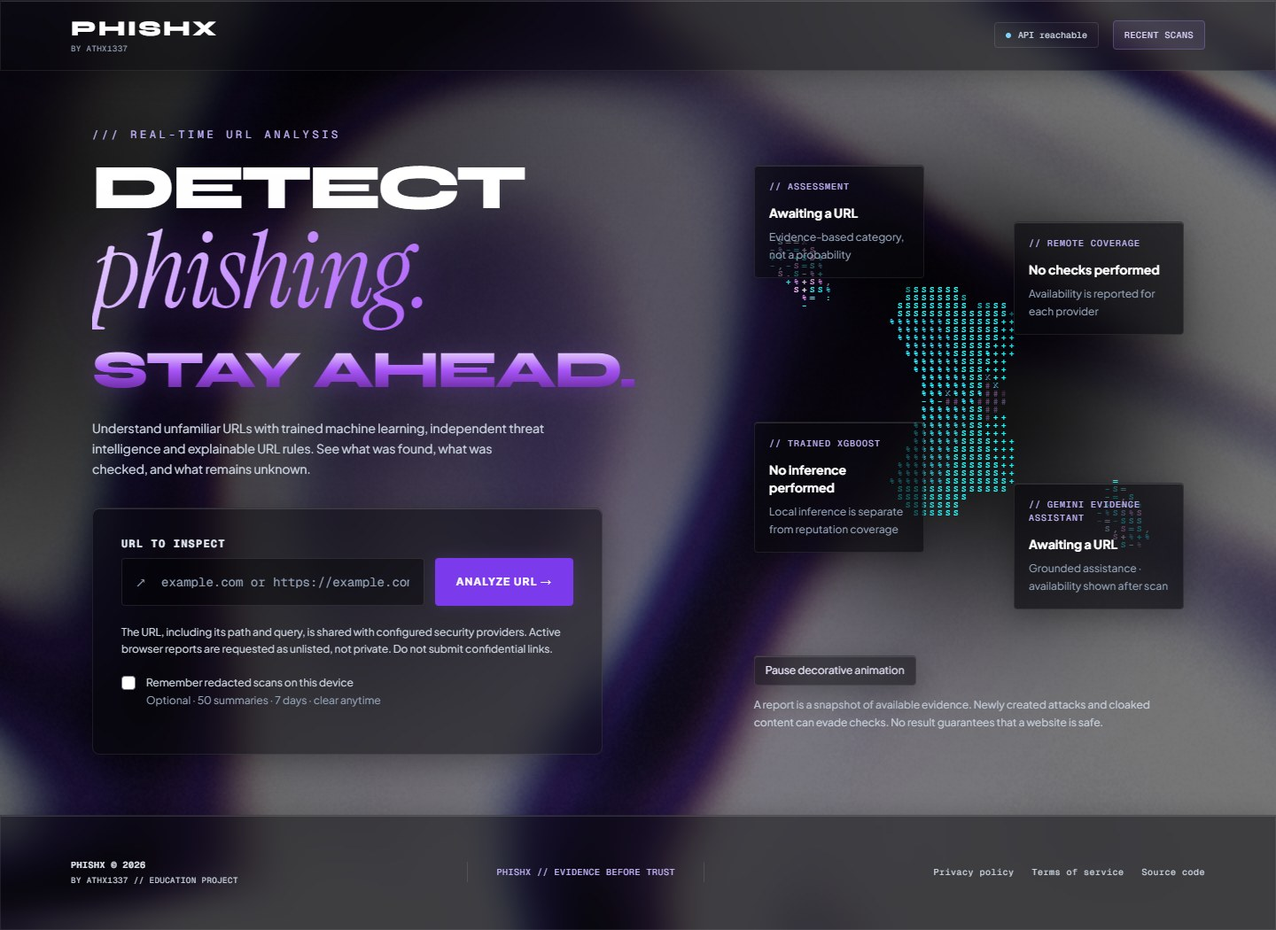
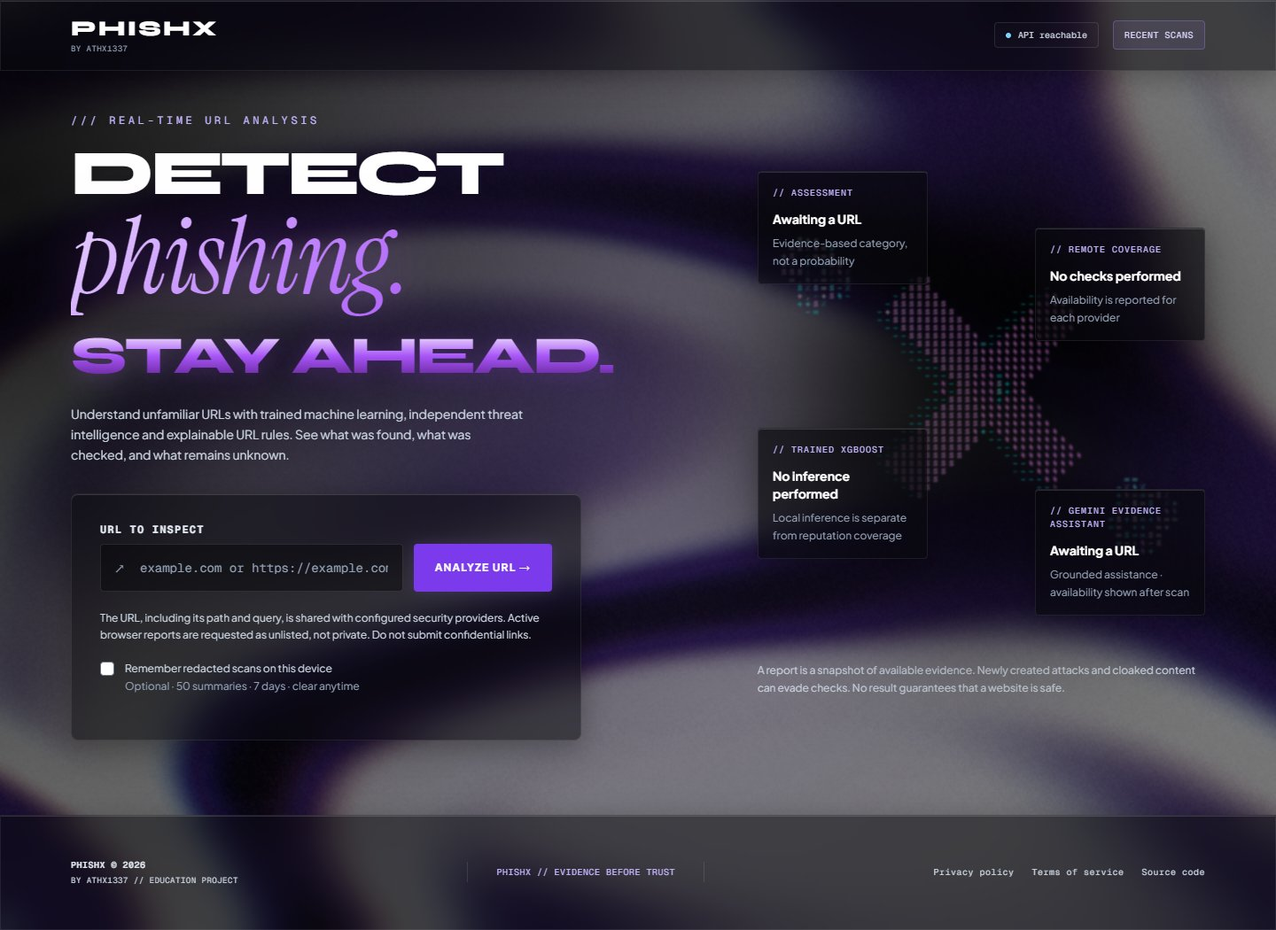
Document scan workspace and production verification

diff --git a/.planning/quick/261103-rkk-compact-scan-workspace-with-real-time-co/261103-rkk-UI-SPEC.md b/.planning/quick/261103-rkk-compact-scan-workspace-with-real-time-co/261103-rkk-UI-SPEC.md
@@ -1,0 +1,78 @@
+# UI-SPEC — phishX scan workspace
+
+Status: implementation contract · 2026-11-03 · quick task 261103-rkk.
+
+## Visual direction
+Keep the original dark purple identity, atmospheric white/purple waves, gothic display headings and ASCII X on the idle home. The user's complaint concerns report organization. Do not recolor the application or replace the restored hero. Remove the visible pause/resume button and App's manual animation state. OS reduced motion, save-data/low-power and hidden-document suspension continue automatically.
+
+Report changes from left-column content beside the hero into a centered full-width workspace (max-width about 1240px, 24px desktop/16px mobile gutters). Hero/HUD composition belongs to idle; do not repeat it beside results. Use the current sans body, mono for technical values, gothic for the principal verdict only. Plain readable headings for tabs/cards. Compact 16–20px panel padding, 12–16px gaps, 1px quiet borders, 8–12px radii; avoid oversized nested glass panels. No safety gauge, invented risk score or big success-green treatment.
+
+## Report anatomy
+```text
+phishX                                                   Recent scans
+REPORT · observed time · cached/current/expired        Refresh  New scan
+┌───────────────────────────────────┬─────────────────────────────────┐
+│ Verdict + short recommendation    │ actual-domain.example  [Copy]  │
+│ Recorded summary                  │ requested URL / full hostname   │
+│ [partial/expiry warning if needed]│ remote coverage + status counts │
+└───────────────────────────────────┴─────────────────────────────────┘
+  Overview       Sources (7)       Browser       Model & AI
+┌───────────────────────────────────┬─────────────────────────────────┐
+│ Why this assessment               │ Evidence assistant             │
+│ Recorded reasons/provenance       │ true status + concise text     │
+│                                   │ registration / observed targets│
+└───────────────────────────────────┴─────────────────────────────────┘
+Snapshot observed / expires / policy · caveat
+```
+
+The header and verdict/domain/coverage remain outside tab panels, with a short recommendation; overall report data is not copied into every tab. Full submitted URL wraps as text; registrable domain is prominent and selectable. Show hostname and Unicode difference when relevant. Copy has a polite announced outcome. Refresh and check-another actions remain visible. Repeated provider errors are summarized once with details in the source inspector.
+
+### Overview
+Two columns at ≥900px, one column below. Main column: recorded reasons with title, description, source, threat type, observed time and stable evidence IDs. Supporting column: concise grounded Gemini explanation/status (keep recognizably visible), registration source/registrar/creation/age/observed time, and requested protocol variants. Long reasons may be grouped with an explicit “Show all findings (N)” action, with all content reachable and evidence links resolving. Do not silently truncate evidence or explanation text. Observed destination summary is compact here with a route to complete destination assessments under Browser.
+
+### Sources
+Responsive source-card grid: four columns on wide screens and two on smaller screens. Render the engines returned by the scan. Cards are native buttons with a minimum interaction area of 44px, a readable name and status badge, a kind label, and a short message. The inspector shows the full message. Status is conveyed in text. Registration context has richer fields in the inspector and Overview and is counted separately from remote providers.
+
+Click opens existing focus-managed Dialog titled with source name; card retains visible focus on close. Inspector contains engine status/type/message/error/observation timestamp, engine evidence and every requested target's URL/status/message/error/timestamps/expiry/evidence. Local model source also shows model/feature version, raw/calibrated output, threshold, promotion/shadow status and safety-probability limitation. Retain all valid source fields currently displayed. No nested source accordions required.
+
+### Browser
+Top line explains active-browser provenance, observation time and unavailable state. For multiple requested targets use explicit target selection; retain accessible target labels. Compact fact strip: IP, ASN, country, final observed URL. Focused subviews/selector for Navigation, Certificates, HTTP transactions, Reported risks and Observed links, with counts and real empty states. Scroll long tables/lists within readable bounds and keep headers visible if useful; do not impose whole-page horizontal scrolling. Navigation includes ordered redirect chain plus complete observed destination assessments: actual domain, verdict, summary, coverage, reasons and observed/expiry metadata. Keep requested schemes distinct from observed TLS/certificate facts. Links and transaction URLs are copyable/selectable text, never automatic links into an untrusted site. Certificates do not establish trust; empty risks do not establish safety.
+
+### Model & AI
+Show the trained XGBoost model's actual per-target provenance/output/threshold/shadow status and explanation of its supporting role. Show complete Gemini provenance, real model ID, referenced evidence and truthful deterministic fallback/status. Gemini is an evidence assistant; it cannot change the official verdict or independently browse/detect threats. Overview may show a compact instance of this explanation; avoid duplicate DOM anchors. Cross-tab evidence links must activate Overview and focus/scroll the mounted observation; a normal link must never point into an unmounted panel.
+
+## Progress screen and lifecycle
+```text
+                         Inspecting example.com
+                   Waiting for scan service · 00:04
+                  No percentage available · Cancel request
+
+After first validated response:
+  Collecting browser observations                     elapsed 00:17
+  Google Safe Browsing  No detection     URLhaus       Unavailable
+  VirusTotal            Check failed     Cloudflare    Pending
+  URL rules             No detection     XGBoost       No detection
+  Registration          Context ready
+  Remote coverage: 1/4 completed · 1 pending · 1 unavailable · 1 failed
+  Next status check in 8s · active inspection deadline 02:43 remaining
+                       Stop waiting and view partial report
+```
+
+Do not display final verdict, full report details or a fake progress bar before completion. Before the first POST response no provider completion is known; use submission/waiting text and elapsed time only. After first response show actual source statuses and meaningful real task facts; display terminal/completed remote counts separately. Text should explain updates are checked approximately every 10s, governed by the provider schedule; elapsed clock is not progress. Pending job holds the report until all target jobs are done and deep_scan is absent. Errors/unavailable/unknown are terminal outcomes, not indefinite blockers and not completed reputation coverage.
+
+Normal finish moves focus to the published verdict heading. Explicit stop, fixed deadline or terminal polling failure reveals the last accepted snapshot with a persistent “Partial report” reason, pending/unverified warning and fresh-scan action. An untrackable pending response also exits as partial with an explanation. Before any response, cancel/error returns to scanner and an announced message. Providers may finish already-submitted work; preserve that cancellation limitation. Reset/rescan never lets a late old response replace the new state.
+
+## Truth, privacy and expiry
+Use current verdict/status labels and policy. “No known threats detected” is qualified by completed evidence and never promises safety. Error/unavailable/unknown/local contexts stay visibly distinct. Coverage denominator counts remote reputation/active sources only, not heuristics/model/registration. Missing checks do not establish safety. Preserve checked URLs, destination-specific assessments, timestamps, report cache provenance and policy version. Expired negative is neutral “Report expired”; historical malicious/suspicious warning remains. Expiry warning sits above tab content and refresh remains operable.
+
+Preserve pre-submit third-party sharing/unlisted-not-private disclosure, sensitive-parameter acknowledgement, legal modal and off-by-default redacted history. No new Gemini payload fields or page/URL sharing. New report layout must retain access to existing privacy/terms.
+
+## Accessibility and responsive acceptance
+- Native buttons and semantic sections/headings; tablist/tab/tabpanel with unique IDs, aria-selected/controls, roving tab focus and ArrowLeft/Right/Home/End support. Four tab labels fit 390px through compact type/padding or a discoverable tablist-only overflow.
+- Focus on progress heading when it replaces the form, on verdict at final publish, and restore focus to source button after Dialog Escape/close. No focus jumps on each elapsed tick/poll. Dialog uses existing trap/inert/body-scroll behavior.
+- Announce source transitions/phase/retry/partial result in one polite live region, not elapsed/next-poll countdown every second. Use alert for blocking errors/expiry as existing policy requires. Status is understandable without color. Visible focus and minimum 44px action target.
+- Long URLs wrap; tables may have their own labeled horizontal overflow. At 390px no page overflow; at 1440px report uses the available workspace, not the old seven-column slot. At 200% zoom content reflows and tabs/inspector remain usable.
+- Static reduced-motion presentation retains all data and actions. No entrance sequence delays access to report data. Verify automated axe plus manual keyboard flow, meaningful screenshots and zero runtime errors.
+
+## Evidence checklist
+Root captures idle home, first-response progress, desktop Overview, mobile report and source Dialog. Tests use rich valid fixtures covering dual protocols, all statuses, registration, model shadow/promoted data, Gemini complete/fallback, redirects/destinations/certificates/transactions/risks/links and expiry. Synthetic tests and actual public scan evidence are labeled separately.

diff --git a/.planning/quick/261103-rkk-compact-scan-workspace-with-real-time-co/261103-rkk-PLAN.md b/.planning/quick/261103-rkk-compact-scan-workspace-with-real-time-co/261103-rkk-PLAN.md
@@ -1,0 +1,56 @@
+---
+id: 261103-rkk
+type: quick-full
+status: approved-for-execution
+baseline: 577b1b9
+date: 2026-11-03
+---
+# Compact scan workspace with real-time completion
+
+## Outcome and fixed scope
+Preserve the restored original purple home, waves, X visual and truthful HUDs. Remove the visible decorative pause/resume control and its App state as explicitly requested. Replace the long accordion report with a full-width, compact workspace. Show a dedicated progress screen until the actual scan lifecycle completes; a partial report is an explicit exception with a reason.
+
+The binding visual/interaction contract is [261103-rkk-UI-SPEC.md](261103-rkk-UI-SPEC.md). No new formal phase, provider additions, evidence-policy changes, schema changes, fabricated scores or animation rewrite.
+
+## Inspection and constraints
+- `App.jsx` currently publishes the first report immediately, polls every provider-defined interval, and constrains results to the home left column. Retain its identity/scope checks, aborts, deadlines, bounded 404/503 retries, freshness, consent and opt-in redacted history.
+- `shared/scan.ts` is the unchanged trust boundary. Terminal statuses are detected/no_detection/error/unavailable/unknown; only detected/no_detection count as completed remote coverage. Engine and target status must both be considered for pending work.
+- Production has seven engines: three reputation sources, Cloudflare active, URL heuristics, XGBoost and registration context. Derive cards from `result.engines`; do not invent missing engines or duplicate registration as an eighth source. Old valid reports/tests can have fewer engines.
+- Initial POST is not streamed: before its first validated response the UI can truthfully show only submission/waiting and elapsed time. Later statuses come from validated poll reports, with next-poll/deadline times; do not imply per-provider live events or fake percentages.
+- The existing `Dialog` already supplies portal, inert background, focus trap, Escape, backdrop close and focus restoration. Reuse it unchanged unless a demonstrated defect requires root coordination.
+- Gemini is an evidence selector, not a second scanner. Preserve minimal input, immutable verdict, ID validation, deterministic wording/fallback, true model and AI status. Root verifies current account/model support before backend migration.
+
+## Task 1 — Tracer: truthful completion lifecycle and report routing
+**Owner:** root. **Files:** `frontend/src/App.jsx`, new `components/ScanProgress.jsx`, new progress CSS, `frontend/test/app.test.jsx`, progress tests; minimal global layout CSS and e2e owned by root. **Reversibility:** reversible.
+1. Separate submitted/progress snapshot from published report. Suggested phases: idle → submitting → waiting → report; error before any snapshot returns to operable scanner. Retain the latest accepted snapshot for partial exit; do not render verdict/HUD verdict/result details during submitting/waiting.
+2. Publish normally only when no deep_scan exists and no engine/target remains pending. Terminal errors/unavailable/unknown permit exit but remain incomplete coverage. A returned deep_scan keeps the report withheld until the server clears it, even if the current card statuses look terminal.
+3. Honor server next_poll_at with at least the existing 10s provider cadence, elapsed time, explicit next-check/deadline and bounded retries. Cancel aborts initial submission; “Stop waiting and view partial report” aborts timers/poll and publishes the latest accepted snapshot with an explicit stopped label. Without a snapshot, cancellation returns to scanner.
+4. Job expiry, terminal poll failure/retry exhaustion, invalid/mismatched poll scope and pending-without-a-trackable-job release a clearly labeled partial snapshot; never spin indefinitely or silently label it complete. Keep a fixed job deadline that later responses cannot extend, and reject stale/aborted/after-deadline responses. Initial request keeps its existing finite API timeout.
+5. Reset/rescan/new request/unmount abort every old request and timer. Preserve sensitive consent, refresh cache bypass, freshness behavior, redacted history preference and expiry clock. Save only an accepted published snapshot to history, not every pending polling update.
+6. Render full-width ResultsDashboard outside the home two-column grid. Keep home identity intact in idle; progress is its own focused layout. Remove visible animation button/state; retain OS reduced motion, low-power/save-data and component visibility suspension.
+**Verify:** App tests prove withheld result before final response, first-response waiting, pending→terminal, all terminal failures exit, stop partial, pre-response cancel, fixed deadline/in-flight late result, retry exhaustion, wrong scan/url/checked_urls rejection, rescan/reset stale isolation and unchanged consent/history/expiry behavior.
+
+## Task 2 — Compact report, source inspector and retained evidence
+**Owner:** report executor. **Files:** `ResultsDashboard.jsx`, `GeminiExplanation.jsx`, `AnalysisExtensions.jsx`, `CloudflareDeepAnalysis.jsx`, new `SourceGridInspector.jsx`, new `report.css`; only results/extensions/Gemini/new report component tests. Do not edit App, shared fixtures/contracts, Dialog, global CSS or e2e. **Reversibility:** reversible.
+1. Implement UI-SPEC's persistent compact summary, two-column Overview and four tabs: Overview, Sources, Browser, Model & AI. Default Overview gives useful verdict, domain, coverage, explanation and recorded reasons without scrolling through hidden accordions.
+2. Sources uses derived engine cards with name/kind/status/message and accessible buttons opening the existing Dialog. Inspector preserves engine and every requested target's status, message/error, timestamps/expiry and evidence; model inspector retains feature/model versions, raw/calibrated outputs, thresholds and promotion/shadow status.
+3. Retain requested protocol scope, actual registrable domain/hostname/Unicode warning/copy, registration provenance/age, per-destination verdict/coverage/reasons/expiry, browser redirects/certificates/transactions/risks/links, official reason anchors, observed/expiry/policy/cache metadata and true Gemini fallback/model status. No untrusted URL becomes an accidental navigation link.
+4. Browser data uses a selector or compact subviews for long collections; avoid replacing one endless accordion stack with an endless card stack. Local context must remain visually distinct from remote completed coverage. Keep no-known-threats caveat and expiry neutralization; preserve malicious/suspicious historical warnings.
+5. Keep existing Dashboard props compatible for root integration. `pollError`, `pollingStopped`, `pollNotice` must produce clear partial context when provided; normal full reports do not expose a second polling flow. A new optional completion/partial reason prop is allowed only if coordinated with root.
+**Verify:** Component tests navigate all tabs, inspect every source kind/status, prove no data fields lost with rich fixtures, preserve expiry/copy/unknown verdict/model/AI fallbacks, use keyboard/Escape and restore inspector trigger focus. Gemini evidence links must target mounted visible evidence (switch tab first if needed).
+
+## Task 3 — Supported Gemini configuration and integrated release evidence
+**Owners:** backend executor for backend only; root for integration/e2e/docs/release. **Backend files:** explanation config/tests, example config and current backend model configuration only. **Reversibility:** reversible.
+1. Backend executor uses Google's current primary docs and root's authenticated non-secret support probe to choose a supported economical model; Gemini 2.5 Flash deprecation is documented. Preserve env override, bounded request time, minimal evidence-only payload, validation, truthful provenance and deterministic fallback. Adapt generation settings only to supported current-model options; do not guess compatibility. If changing the existing 3s timeout, document/test the new bound and preserve the overall scan deadline. Requested model/aliases must not falsely label a different returned model; use validated actual model identity where returned. Provider capacity errors do not block UI work or justify claiming AI completion.
+2. Root integrates and runs `npm run check`, `npm run scan:secrets`, relevant `npm run check:ops`, backend/provider tests and desktop/mobile Playwright including axe. Adjust prior pause/resume test to assert absent control plus retained automatic/reduced-motion/low-power/visibility/WebGL fallback behavior.
+3. E2E proves progress→all-terminal→full-width report; pending screenshot contains no result verdict/details; real next poll cadence; stop/deadline partial and failure exit; keyboard tabs/inspector; rich browser/model/destination data reachable; no horizontal overflow at 390px and 1440px. Capture home/progress/report/source-inspector images for concrete review.
+4. Root updates quick summary/verification and current state/docs with exact counts, model identity, known limitations and release evidence. Root alone coordinates authorized GitHub publication/deployment and actual public scan checks; no synthetic fixture is claimed as live evidence.
+**Done:** requested report/progress behavior and absent pause control verified locally and on matching deployed frontend/API; no evidence/privacy regressions; concise user-facing explanation answers model relevance with current verified facts.
+
+## Plan self-check
+APPROVED: three bounded tasks, non-overlapping file ownership, first task supplies end-to-end completion tracer, UI-SPEC supplies concrete layout/states/accessibility, all existing evidence classes have a destination, and verification covers cancellation/deadline/stale/error paths. No planning blocker. Model choice remains an explicit execution dependency on the root's current account probe; a failed probe keeps the existing truthful fallback and prevents unsupported success claims.
+
+## Primary research (checked 2026-11-03)
+- [Google Threat Intelligence URL reports](https://gtidocs.virustotal.com/docs/results-reports): summary and focused detection/details tabs support separation of overview from per-source evidence.
+- [PortSwigger scan results](https://portswigger.net/burp/documentation/dast/user-guide/work-with-scan-results/viewing-scan-results): scan overview with focused findings supports concise summary plus detailed investigation.
+- [Google Gemini deprecations](https://aistudio.google.com/docs/deprecations#gemini-2.5-flash-models): current model lifecycle must govern migration; root owns the authenticated availability/free-tier check.

diff --git a/.planning/quick/261103-rkk-compact-scan-workspace-with-real-time-co/261103-rkk-VERIFICATION.md b/.planning/quick/261103-rkk-compact-scan-workspace-with-real-time-co/261103-rkk-VERIFICATION.md
@@ -1,0 +1,41 @@
+---
+quick_task: 261103-rkk
+verified: 2026-11-04T10:03:52Z
+status: passed
+score: 7/7 must-haves verified
+source_commit: 970f8a3
+covered_files: [".planning/quick/261103-rkk-compact-scan-workspace-with-real-time-co/261103-rkk-PLAN.md", "backend-worker/src/explanation.ts", "backend-worker/src/storage.ts", "backend-worker/test/explanation.spec.ts", "backend-worker/test/scanner.spec.ts", "backend-worker/wrangler.jsonc", "frontend/e2e/motion.spec.js", "frontend/e2e/scanner.spec.js", "frontend/e2e/workspace.spec.js", "frontend/src/App.jsx", "frontend/src/CloudflareDeepAnalysis.jsx", "frontend/src/components/AnalysisExtensions.jsx", "frontend/src/components/GeminiExplanation.jsx", "frontend/src/components/ReportEvidence.jsx", "frontend/src/components/ReportModel.jsx", "frontend/src/components/ResultsDashboard.jsx", "frontend/src/components/ScanProgress.jsx", "frontend/src/components/SourceGridInspector.jsx", "frontend/src/components/report-format.js", "frontend/src/components/report.css", "frontend/src/hooks/use-scan-session.js", "frontend/src/scan-progress.css", "frontend/test/app.test.jsx", "frontend/test/extensions.test.jsx", "frontend/test/gemini.test.jsx", "frontend/test/report-workspace.test.jsx", "frontend/test/results.test.jsx"]
+covered_digest: "v4:sha256:e764d003ce295638da2a46284a3196ed698f58e493b3570b1d4231ab7aaf1bf9"
+re_verification:
+  previous_status: gaps_found
+  previous_score: 4/7
+  gaps_closed:
+    - Live reduced motion preference changes stop and restart home decoration.
+    - Progress shows separate remote coverage and the scheduled next status update.
+    - Existing desktop and mobile browser regressions pass.
+  gaps_remaining: []
+---
+
+# Quick task 261103-rkk verification
+
+Goal: keep the original scanner identity, present actual progress until tracked work finishes, and publish a compact report with its evidence intact. This review used the [plan](261103-rkk-PLAN.md), [UI contract](261103-rkk-UI-SPEC.md), changed code, and test artifacts.
+
+| Observable result | Status | Evidence |
+| --- | --- | --- |
+| Pending scan work withholds the verdict and report, then terminal results publish automatically. | Verified locally | `App.jsx` routes the running session exclusively to `ScanProgress`. The session retains validated snapshots, checks both engine and target status and requires the server to clear `deep_scan`. `app.test.jsx` covers pending with and without a job. Both browser projects passed the fake-clock pending → one poll → four-tab report flow. |
+| Cancellation, stale responses and deadlines cannot republish obsolete evidence. | Verified locally | `use-scan-session.js` guards scan generation, aborts request and poll, keeps the earliest deadline and compares scan ID, requested URL and ordered scope. Local App tests pass for stop, retry, mismatched scope, original deadline, late results, and stop followed by reset. Browser cancel passed on both devices. |
+| A compact report exposes the original evidence and truthful caveats. | Verified locally | Full-width summary and four tab panels are wired to the report. Source inspector preserves engine and target details, model thresholds and provenance, and raw provider metadata. Browser selectors expose network facts, certificate and transaction data, risks, links, and separately assessed destinations. Component tests cover tab keyboard handling, inspector focus restore, mounted Gemini evidence links, expiry, coverage, no untrusted links and rich evidence. Desktop/mobile workspace tests passed and captured Overview and Sources screenshots. |
+| Gemini 3.5 Flash-Lite preserves evidence selection and fallback behavior. | Verified locally and on hosted API samples | Backend tests cover payload minimization, model identity, bounded requests, valid IDs, and fallback. [Hosted API evidence](HOSTED-GEMINI.json) records HTTP 200 `complete` responses using `gemini-3.5-flash-lite` for a zero-warning control and a malicious positive. I revalidated both saved full responses against `isScanReport` and confirmed all cited IDs belong to their report reasons. The control still had a pending Cloudflare job. The positive was terminal with a Cloudflare error explicitly recorded. |
+| The original home preserves automatic motion controls after removing manual pause. | Verified locally | Browser assertions confirm the pause control is absent, the decoration plays by default, and a live OS preference change stops and restarts it. Initial reduced motion, low power, hidden-document suspension and WebGL fallback also pass. |
+| Progress distinguishes remote coverage from source responses. Hosted browsers wait for completion. | Verified locally and hosted | `ScanProgress` displays remote coverage separately from returned source statuses and displays the scheduled next status update. [Production browser evidence](PRODUCTION-UI.json) records tracked jobs in both desktop and mobile, four accepted API reports each, removal of the active job, and 4/4 completed remote providers before publishing the final verdict. |
+| Existing browser flows pass with the new layout. | Verified locally | Final browser run passed all 30 cases, including sensitive input, redacted history, explicit partial stop, original home behavior and the report's accessible verdict and source inspector. |
+
+## Executed evidence
+
+- `.cache/workspace-check.log` completed `npm run check` with TypeScript, lint, 44 shared/monitor tests, 190 Worker tests, 69 frontend tests and Vite build passing. Vite reports the existing large Three.js bundle warning.
+- `.cache/workspace-e2e.log` records 30/30 passing in 36.6 seconds. The final suite covers four tabs, seven actual fixture sources, an operable source dialog, Escape and focus restoration, no whole-page horizontal overflow, and zero axe violations in exercised views. Earlier runs exposed the missing live reduced-motion update and verdict text assertions. Both issues are closed by the final run.
+- Independent Chrome spot check at 1440px, 640px and 390px found zero page, tablist or card overflow and an operable inspector at each width. The source grid uses four columns at 1440px and two at 640px and 390px, matching the revised UI contract. The Overview shortcut focuses the Browser tab. `git diff --check` passed.
+- Independent `npm run check:ops` passed Prometheus 3.15.1 rules, alert behavior and dashboard validation. `npm run scan:secrets` passed the working tree and Git history with Gitleaks 8.30.1.
+- Report data flows from validated API responses through `useScanSession` into `ScanProgress` or `ResultsDashboard`. Final verdict, coverage, provider observations, XGBoost values and Gemini status come from that response. Progress placeholders before the first response indicate waiting only. Reports whose evidence context changes during polling can use deterministic fallback with explicit provenance.
+- The hosted desktop control finished with no known threats detected. The hosted mobile Safe Browsing test URL finished malicious. Both displayed completed Gemini 3.5 Flash-Lite provenance. The production browser probe observed the progress screen before the verdict, seven Sources cards, a source inspector, no page overflow and no runtime errors. `.cache/workspace-hosted.log` and the production screenshots corroborate [PRODUCTION-UI.json](PRODUCTION-UI.json).
+- Reviewed release identifiers are Worker `710d9e0a-e70b-4d1c-872d-a1ab72a0f90f` and Vercel `dpl_CMELMTzXjRSMAAh8bkWcWBR4MqBf`. The Vercel deployment log shows the production alias ready. The narrow viewport checks cover responsive reflow. Native 200% browser zoom and manual assistive-technology testing were outside the executed evidence.

diff --git a/README.md b/README.md
@@ -46,8 +46,9 @@ A useful scan explains what was observed, where the information came from, and w
 | **Evidence you can inspect** | Four outcomes, attributed reasons, observation times, coverage, and explicit pending/error states. |
 | **Trained local XGBoost** | A real URL-only model running inside the Worker: 69 features and 160 trees, with no separate Python inference service. |
 | **Four remote sources** | Reputation from Google Safe Browsing, URLhaus and VirusTotal, plus active inspection from Cloudflare URL Scanner, each with its actual status and findings. |
-| **Grounded Gemini assistance** | Gemini 2.5 Flash selects existing evidence IDs for an explanation. Production displays its completion or fallback status; it cannot override the verdict. |
-| **An expressive interface** | Restored waves, typewriter/glitch text, ASCII X, floating glass panels, responsive reports, and pause/reduced-motion controls. |
+| **Grounded Gemini assistance** | Gemini 3.5 Flash-Lite selects existing evidence IDs for an explanation. Production displays its completion or fallback status; it cannot override the verdict. |
+| **Live scan workspace** | Source statuses update from the API while checks run. The finished report organizes findings into Overview, Sources, Browser, and Model & AI tabs. |
+| **An expressive interface** | Animated waves, typewriter text, ASCII X, and floating glass panels honor the system reduced-motion preference. |
 | **Deliberate data handling** | Sensitive-link consent, opt-in redacted browser history capped at 50 entries/seven days, and short-lived active scan jobs. |
 
 ## Read the result
@@ -90,7 +91,7 @@ Production requires managed route limiters and a global Durable Object coordinat
 | API and runtime | TypeScript, Hono, Cloudflare Workers |
 | Coordination and storage | Durable Objects, optional Workers KV, managed rate limits |
 | Analysis | Local XGBoost, URL heuristics, RDAP, four remote providers |
-| Explanation | Deterministic templates; optional Gemini 2.5 Flash evidence selection |
+| Explanation | Deterministic templates; optional Gemini 3.5 Flash-Lite evidence selection |
 | Verification | Node test runner, Vitest, Playwright/axe, model parity, Prometheus rules |
 
 ```text
@@ -170,7 +171,7 @@ Provider keys are optional for local development. Without them, ordinary URLs ge
 | `CLIENT_ID_SECRET`, `METRICS_TOKEN` | Independent client-identity HMAC and protected metrics secrets |
 | `ALLOWED_ORIGINS` | Exact frontend origins accepted by CORS |
 | `CACHE_CONFIG_VERSION` | Cache generation; increment after provider/policy changes |
-| `GEMINI_ENABLED`, `GEMINI_API_KEY`, `GEMINI_MODEL` | Optional bounded evidence selection; production uses `gemini-2.5-flash` |
+| `GEMINI_ENABLED`, `GEMINI_API_KEY`, `GEMINI_MODEL` | Optional bounded evidence selection; production uses `gemini-3.5-flash-lite` |
 
 Keep local credentials in ignored `.dev.vars` files. Set production credentials through Wrangler secret bindings, for example from `backend-worker/`:
 
@@ -194,7 +195,7 @@ curl -X POST http://localhost:8787/api/verify \
   -d '{"url":"https://example.com","refresh":false,"sensitive_url_consent":false}'
 ```
 
-When a response includes `deep_scan`, wait until its `next_poll_at`, then request the returned `poll_path` (the `/api/scans/:scan_id` route). Follow the timing from each fresh response and replace the previous report. The scan ID is a temporary read capability; keep it private.
+When a response includes `deep_scan`, wait until its `next_poll_at`, then request the returned `poll_path` (the `/api/scans/:scan_id` route). Follow the timing from each fresh response and replace the previous report. The web app keeps the progress view open while a tracked job is pending and labels interrupted reports as partial. The scan ID is a temporary read capability; keep it private.
 
 ```bash
 curl "http://localhost:8787/api/scans/SCAN_ID_FROM_RESPONSE"
@@ -229,7 +230,7 @@ On Windows, the Playwright configuration defaults to installed Chrome at `C:/Pro
 | Model verification | 100 native/edge prediction fixtures and 23 feature controls |
 | Python training pipeline | Five cases in the earlier recorded pipeline run; not a new run |
 
-Controlled browser/provider fixtures check behavior, not live detection accuracy or account permissions. CI also runs dependency audits, the controlled benchmark, a Worker dry run, and browser tests. See the [current UI/Gemini verification](.planning/quick/261103-ltf-restore-original-animated-ui-and-visible/261103-ltf-VERIFICATION.md) and [full audit verification](.planning/phases/02-complete-audit/02-VERIFICATION.md) for evidence and scope.
+Controlled browser/provider fixtures check behavior, not live detection accuracy or account permissions. CI also runs dependency audits, the controlled benchmark, a Worker dry run, and browser tests. See the [current UI/Gemini verification](.planning/quick/261103-rkk-compact-scan-workspace-with-real-time-co/261103-rkk-VERIFICATION.md) and [full audit verification](.planning/phases/02-complete-audit/02-VERIFICATION.md) for evidence and scope.
 
 ## The model and its limits
 

diff --git a/.planning/STATE.md b/.planning/STATE.md
@@ -25,9 +25,9 @@ Progress: 100% of the two implementation plans; not a claim that ongoing alert d
 
 ## Accumulated Context
 Baseline: earlier user changes were preserved and included in the user-authorized source release `dc1b315`, pushed to `athx1337/phishX` on main with author athx1337 <standoffak92@gmail.com>.
-Current verification: 44 shared/monitor tests, 176 backend tests, 54 frontend tests and 26 browser cases. The unchanged ML pipeline previously passed five Python tests. Native/edge parity passed for 100 predictions and 23 feature fixtures. Full dependency audits report zero vulnerabilities; real Gitleaks/promtool checks pass. See phases/02-complete-audit/02-VERIFICATION.md and docs/AUDIT-TRACEABILITY.md.
-Live: https://phish-x.vercel.app and https://backend-worker.phish-x.workers.dev. Worker 2c80f543-c4e1-43fb-8c3c-a08c502f181e; Vercel dpl_Bu6qzmnXKStPoH1fLVtdDvDcwBBL. UI/Gemini code commit 5308218. Genuine model xgb-url-2026-11-03-v2.
-Next: Review user feedback on the restored original design. Monitoring still needs the repository metrics secret and verified notification delivery; source publication/Git authentication and the UI/Gemini deployment are verified.
+Current verification: 44 shared/monitor tests, 190 backend tests, 69 frontend tests and 30 browser cases. The unchanged ML pipeline previously passed five Python tests. Native/edge parity passed for 100 predictions and 23 feature fixtures. Full dependency audits report zero vulnerabilities; real Gitleaks/promtool checks pass. See phases/02-complete-audit/02-VERIFICATION.md and docs/AUDIT-TRACEABILITY.md.
+Live: https://phish-x.vercel.app and https://backend-worker.phish-x.workers.dev. Worker 710d9e0a-e70b-4d1c-872d-a1ab72a0f90f; Vercel dpl_CMELMTzXjRSMAAh8bkWcWBR4MqBf. Report/progress and Gemini code commit 970f8a3. Genuine model xgb-url-2026-11-03-v2.
+Next: Review user feedback on the compact workspace. Monitoring still needs the repository metrics secret and verified notification delivery; source publication/Git authentication and the UI/Gemini deployment are verified.
 
 ### Blockers/Concerns
 Cloudflare/Vercel logins, actual provider calls and public deployment are verified; prior permission/account uncertainty is superseded. OAuth MCP/plugin setup requires a Codex reload to expose newly registered tools in this chat. A temporary real Prometheus scraper was stopped; the free GitHub availability workflow is published but its metrics secret and delivery remain unverified. Provider billing alerts, enforced rotation/log-retention policy, human assistive-technology review and multi-region load checks are unverified. Model recall48.657% / FNR51.343%, benign Gist false positive, source bias and repeated fixed-test evaluation are disclosed; a fresh independent benchmark is still needed. Temporary isolated Cloudflare audit Worker/KV resources remain for review.
@@ -37,6 +37,7 @@ Cloudflare/Vercel logins, actual provider calls and public deployment are verifi
 | Task | Description | Date | Code commit | Verification |
 | --- | --- | --- | --- | --- |
 | [261103-ltf](quick/261103-ltf-restore-original-animated-ui-and-visible/261103-ltf-SUMMARY.md) | Original animated UI and visible working Gemini restored; audited features preserved | 2026-11-03 | 5308218 | Passed local suites and actual public desktop/mobile scans |
+| [261103-rkk](quick/261103-rkk-compact-scan-workspace-with-real-time-co/261103-rkk-SUMMARY.md) | Live scan progress, tabbed report, Gemini 3.5 Flash-Lite, and no decorative pause button | 2026-11-04 | 970f8a3 | Local suites and hosted desktop/mobile scan completion verified |
 
 ## Session Continuity
-Last session: 2026-11-03. Completed original-design/Gemini restoration. Read quick 261103-ltf SUMMARY/VERIFICATION for current release; phase02 records the prior audit baseline. Gemini 2.5 Flash status/provenance is real and visible; no security/evidence policy was reverted.
+Last session: 2026-11-04. Quick task 261103-rkk records the live report and Gemini migration. Read its summary and verification for current deployment evidence. Phase 02 records the audit baseline.

diff --git a/.planning/quick/261103-rkk-compact-scan-workspace-with-real-time-co/261103-rkk-SUMMARY.md b/.planning/quick/261103-rkk-compact-scan-workspace-with-real-time-co/261103-rkk-SUMMARY.md
@@ -1,0 +1,18 @@
+---
+quick_task: 261103-rkk
+completed: 2026-11-04
+code_commit: 970f8a3
+---
+
+# Live scan progress and compact report workspace
+
+- The home keeps its animated waves and ASCII X. The decorative pause button is gone. System reduced motion takes effect while the page is open.
+- Scan progress shows elapsed time, real source statuses after the first API response, remote coverage, and scheduled updates. The report opens automatically when the tracked job finishes. A failed poll, expired deadline, or manual stop with an available snapshot produces an explicitly partial report.
+- The report has Overview, Sources, Browser, and Model & AI tabs. The Sources view uses four columns on wide screens and two on smaller screens, with a keyboard-operable inspector for each source.
+- The Worker uses Gemini 3.5 Flash-Lite for grounded evidence selection and reports the provider's model version when available. Bounded calls and a deterministic fallback cover provider failures.
+
+Local verification passed TypeScript, lint, 303 automated tests, the production build, 30 desktop/mobile browser cases, Prometheus checks, and the secret scan. Two production browser runs progressed through a tracked Cloudflare job to 4/4 remote coverage with Gemini 3.5 Flash-Lite complete. The browser check used Example Domain and Google's official Safe Browsing phishing test page.
+
+Cloudflare Worker version `710d9e0a-e70b-4d1c-872d-a1ab72a0f90f` and Vercel deployment `dpl_CMELMTzXjRSMAAh8bkWcWBR4MqBf` served the verified release. Provider results can vary across requests. An earlier API-only run recorded a Cloudflare failure for the phishing test URL, while Gemini still returned a valid explanation.
+
+See the [verification](261103-rkk-VERIFICATION.md), [hosted browser evidence](PRODUCTION-UI.json), and [hosted Gemini evidence](HOSTED-GEMINI.json).

diff --git a/docs/TECHNICAL-AUDIT.md b/docs/TECHNICAL-AUDIT.md
@@ -30,7 +30,7 @@ flowchart LR
   P --> K[Optional KV source/report caches]
 ```
 
-The implementation uses TypeScript/Hono on Cloudflare Workers with Node compatibility, React 19/Vite 7 and Tailwind on the frontend, `tldts` for PSL domains, `ipaddr.js` for address classification and versioned Unicode 18 confusables. Each application has its own npm lockfile; root scripts coordinate checks. The restored Three.js wave background and ASCII X load automatically on capable default-motion browsers, with pause/reduced-motion controls and static fallbacks. Python/XGBoost/sklearn/NumPy/Pandas are training dependencies, not serving dependencies.
+The implementation uses TypeScript/Hono on Cloudflare Workers with Node compatibility, React 19/Vite 7 and Tailwind on the frontend, `tldts` for PSL domains, `ipaddr.js` for address classification and versioned Unicode 18 confusables. Each application has its own npm lockfile; root scripts coordinate checks. The restored Three.js wave background and ASCII X load automatically on capable default-motion browsers, with system reduced-motion support and static fallbacks. Python/XGBoost/sklearn/NumPy/Pandas are training dependencies, not serving dependencies.
 
 ## Frontend
 
